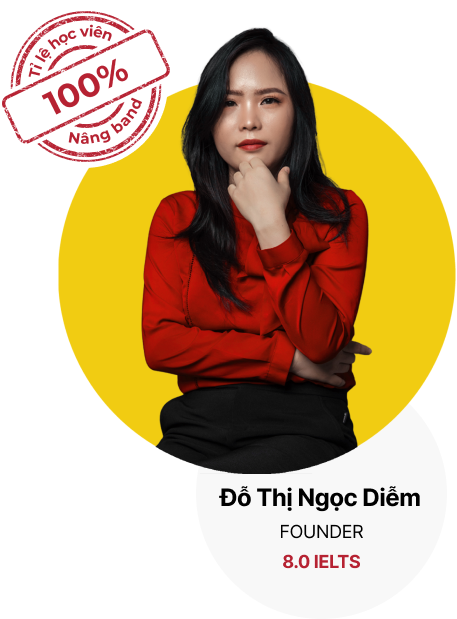
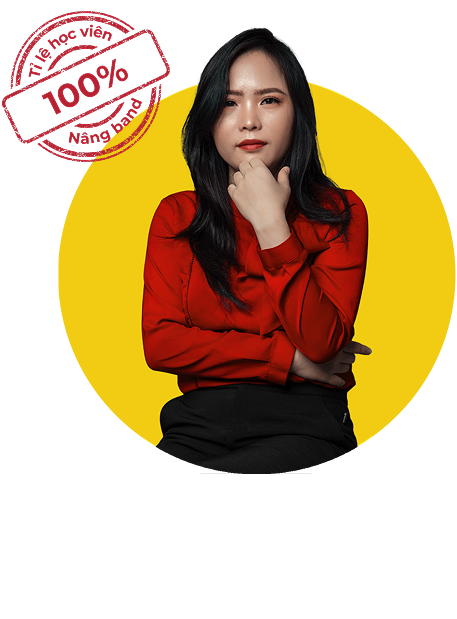
Update consultation button text for consistency and clarity across sections

diff --git a/src/components/home/alice-class-hero-section.tsx b/src/components/home/alice-class-hero-section.tsx
@@ -12,10 +12,10 @@ export const AliceClassHeroSection: React.FC = () => {
               Đạt Điểm IELTS Như Ý Muốn Trong Thời Gian Ngắn Cùng Alice&apos;s Class
             </div>
             <div className="mt-8 text-[16px] tracking-tight leading-8">
-              Bạn đang tìm cách đạt điểm IELTS như trường yêu cầu? Loay hoay không biết bắt đầu học tiếng Anh từ đâu, thiếu tự tin với khả năng sử dụng tiếng Anh hiện tại? Bạn đã dành nhiều thời gian, tiền bạc cho các trung tâm Anh ngữ, &quot;cày&quot; ngày đêm nhưng điểm số vẫn dậm chân tại chỗ, thậm chí còn tụt hạng? Thì bạn đã tìm đến đúng nơi. Tôi là Đỗ Thị Ngọc Diễm, và trung tâm của tôi, Alice&apos;s Class, đã <span className="font-bold">thành công giúp 100% học viên</span> nâng band và đạt được điểm IELTS như kỳ vọng.
+              Bạn muốn đạt điểm IELTS theo yêu cầu của trường? Loay hoay vì không biết bắt đầu học từ đâu, thiếu tự tin vào khả năng tiếng Anh? Dù đã đầu tư thời gian, tiền bạc vào các trung tâm và &quot;cày&quot; ngày đêm, điểm số vẫn không tiến triển, thậm chí tụt hạng? Vậy thì bạn đã tìm đúng chỗ. Tôi là Đỗ Thị Ngọc Diễm, và trung tâm Alice&apos;s Class của tôi đã giúp <span className="font-bold">100% học viên</span> nâng band và đạt điểm IELTS như kỳ vọng.
               <br />
               <br />
-              Chúng tôi đạt được kết quả này nhờ phương pháp giảng dạy lắng nghe, tận tâm, kết hợp sự quan tâm đến từng học viên và <span className="font-bold">lộ trình học tập &quot;đo ni đóng giày&quot;</span>. Nhờ đó giúp học viên nhận ra điểm yếu để tập trung giải quyết, từ đó bứt phá tiếng Anh hiệu quả và đạt được điểm số như mong muốn.
+              Chúng tôi làm được điều này nhờ phương pháp giảng dạy tận tâm, lắng nghe và lộ trình học được thiết kế riêng cho từng học viên. Điều này giúp học viên nhận ra điểm yếu để tập trung cải thiện, từ đó bứt phá tiếng Anh hiệu quả và đạt được điểm số mong muốn.
             </div>
           </div>
         </div>
@@ -23,18 +23,38 @@ export const AliceClassHeroSection: React.FC = () => {
         {/* Founder Card Section */}
 
         <div className="
-          col-start-8
-          col-span-5
-        max-md:col-span-12">
-          <Image
-            src="/assets/person.png"
-            alt="Alice's Class Founder"
-            width={2000}
-            height={2000}
-            className="object-cover rounded-lg"
-            quality={100}
-          />
+          col-start-8 col-span-5 
+          max-md:col-span-12 
+          relative flex justify-center items-center">
+          <div className="relative w-full aspect-square">
+            <Image
+              src="/assets/alice.jpg"
+              alt="Alice's Class Founder"
+              width={2000}
+              height={2000}
+              className="object-cover rounded-lg w-full h-auto z-10"
+              quality={100}
+            />
+            {/* Khối nội dung tên + chức danh */}
+            {/* <div className="
+                absolute bottom-[10%] right-[10%] 
+                md:bottom-[-13%] md:right-[5%] 
+                max-sm:bottom-[-13%] max-sm:right-[20px]
+                lg:bottom-[-7%] lg:right-[2%]
+                text-center bg-[#F8F8F8] rounded-full aspect-square flex items-center justify-center flex-col p-8 -z-10">
+              <div className="text-[24px] font-bold mt-2 max-sm:text-[18px]">
+                Đỗ Thị Ngọc Diễm
+              </div>
+              <div className="text-[18px] max-sm:text-[16px]">
+                FOUNDER
+              </div>
+              <div className="text-[18px] text-[#B62232] mt-1 font-bold max-sm:text-[16px]">
+                8.0 IELTS
+              </div>
+            </div> */}
+          </div>
         </div>
+
       </div>
     </section>
   );

diff --git a/src/components/home/hero-section.tsx b/src/components/home/hero-section.tsx
@@ -19,19 +19,19 @@ export const HeroSection = () => {
         <h1 className="mb-4 md:mb-6 text-xl font-bold leading-tight tracking-tight sm:text-2xl md:text-3xl lg:text-4xl flex flex-col gap-4 md:gap-6">
           <div className="flex flex-col gap-1 md:gap-2">
           <span className="md:hidden block text-white text-wrap text-[24px] sm:text-[28px] md:text-[36px] lg:text-[48px]">
-              CÁCH ĐỂ ĐẠT ĐƯỢC BẤT KÌ BAND ĐIỂM IETLS NÀO BẠN THÍCH...
+              CÁCH ĐỂ ĐẠT 6.5 IETLS TRONG VÒNG 3 THÁNG...
             </span>
 
             <span className="hidden md:block text-white text-wrap text-[24px] sm:text-[28px] md:text-[36px] lg:text-[48px]">
-              CÁCH ĐỂ ĐẠT ĐƯỢC BẤT KÌ BAND
+              CÁCH ĐỂ ĐẠT 6.5 IETLS TRONG
             </span>
             <span className="hidden md:block text-white text-wrap text-[24px] sm:text-[28px] md:text-[36px] lg:text-[48px] mt-2">
-              ĐIỂM IETLS NÀO BẠN THÍCH...{" "}
+             VÒNG 3 THÁNG...{" "}
             </span>
           </div>
           <div className="flex flex-col gap-1 md:gap-2">
             <span className="text-white text-wrap text-[16px] sm:text-[18px] md:text-[24px] lg:text-[28px]">
-              Mà Không Cần Cố Gắng Trả Lời Chính Xác Mọi Câu Hỏi
+              Mà Không Cần Phải Luyện Đề IELTS Mỗi Ngày
             </span>
           </div>
         </h1>
@@ -42,7 +42,7 @@ export const HeroSection = () => {
         </p>
 
        <div className="flex flex-col self-center mt-8 max-w-full text-lg md:text-2xl tracking-tight text-center w-full lg:w-[700px] max-md:mt-10">
-                 <CTAButton text="NHẬN BUỔI TƯ VẤN CHIẾN LƯỢC MIỄN PHÍ" />
+                 <CTAButton text="NHẬN BUỔI TƯ VẤN LỘ TRÌNH HỌC MIỄN PHÍ" />
                </div>
       </div>
     </section>

diff --git a/src/components/home/future-section.tsx b/src/components/home/future-section.tsx
@@ -30,7 +30,7 @@ export default function FutureSection() {
 
         {/* Right column with text content */}
         <div className="space-y-8 lg:col-span-6">
-          <h1 className="text-2xl md:text-4xl lg:text-5xl font-bold text-[#B62232] leading-tight">
+          <h1 className="text-2xl md:text-4xl lg:text-4xl font-bold text-[#B62232] leading-tight">
             Cuộc Sống Của Bạn Sẽ Thế Nào Nếu Đạt Được Điểm IELTS Mong Muốn
           </h1>
           <div className="space-y-6 text-gray-700">
@@ -50,7 +50,7 @@ export default function FutureSection() {
       
     </section>
     <div className="container flex flex-col self-center mt-8 max-w-full text-lg md:text-2xl tracking-tight text-center w-full lg:w-[700px] max-md:mt-10">
-      <CTAButton text="NHẬN BUỔI TƯ VẤN CHIẾN LƯỢC MIỄN PHÍ" />
+      <CTAButton text="NHẬN BUỔI TƯ VẤN LỘ TRÌNH HỌC MIỄN PHÍ" />
       <div className="self-center mt-2.5 leading-8 text-black max-md:max-w-full text-[18px] md:text-[20px] italic font-bold">
         Tìm hiểu cách bạn chắc chắn nâng được band điểm IELTS và tự tin sử dụng tiếng Anh vào đời sống thường ngày
       </div>

diff --git a/src/components/home/consultation-section.tsx b/src/components/home/consultation-section.tsx
@@ -86,7 +86,7 @@ export interface ConsultationButtonProps {
               bold={content.bold}
             />
             <div className="flex flex-col self-center mt-8 max-w-full text-base md:text-lg tracking-tight text-center w-full lg:w-[700px] max-md:mt-10">
-              <CTAButton text="NHẬN BUỔI TƯ VẤN CHIẾN LƯỢC MIỄN PHÍ" />
+              <CTAButton text="NHẬN BUỔI TƯ VẤN LỘ TRÌNH HỌC MIỄN PHÍ" />
               <div className="self-center mt-2.5 leading-6 md:leading-8 text-black text-[16px] md:text-[18px] italic font-bold">
                 Tìm hiểu cách bạn chắc chắn nâng được band điểm IELTS và tự tin sử dụng tiếng Anh vào đời sống thường ngày
               </div>

diff --git a/src/components/home/contact-section.tsx b/src/components/home/contact-section.tsx
@@ -126,7 +126,7 @@ export const ContactFormSection: React.FC = () => {
           </div>
         </div>
         <div className="flex flex-col self-center mt-8 max-w-full text-lg md:text-2xl tracking-tight text-center w-full lg:w-[700px] max-md:mt-10">
-              <CTAButton text="NHẬN BUỔI TƯ VẤN CHIẾN LƯỢC MIỄN PHÍ" />
+              <CTAButton text="NHẬN BUỔI TƯ VẤN LỘ TRÌNH HỌC MIỄN PHÍ" />
               <div className="self-center mt-2.5 leading-8 text-black max-md:max-w-full text-[18px] md:text-[20px] italic font-bold">
                 Tìm hiểu cách bạn chắc chắn nâng được band điểm IELTS và tự tin sử dụng tiếng Anh vào đời sống thường ngày
               </div>

diff --git a/src/components/home/testimonial-section.tsx b/src/components/home/testimonial-section.tsx
@@ -93,7 +93,7 @@ export const TestimonialsSection: React.FC = () => {
           ))}
         </div>
         <div className="flex flex-col self-center mt-8 max-w-full text-lg md:text-2xl tracking-tight text-center w-full lg:w-[700px] max-md:mt-10">
-          <CTAButton text="NHẬN BUỔI TƯ VẤN CHIẾN LƯỢC MIỄN PHÍ" />
+          <CTAButton text="NHẬN BUỔI TƯ VẤN LỘ TRÌNH HỌC MIỄN PHÍ" />
           <div className="self-center mt-2.5 leading-8 text-black max-md:max-w-full text-[18px] md:text-[20px] italic font-bold">
             Tìm hiểu cách bạn chắc chắn nâng được band điểm IELTS và tự tin sử dụng tiếng Anh vào đời sống thường ngày
           </div>

diff --git a/src/components/home/benefit-section.tsx b/src/components/home/benefit-section.tsx
@@ -90,7 +90,7 @@ export function BenefitSection() {
 
       {/* CTA Button */}
       <div className="flex flex-col self-center mt-8 max-w-full text-lg md:text-2xl tracking-tight text-center w-full lg:w-[700px] max-md:mt-10">
-        <CTAButton text="NHẬN BUỔI TƯ VẤN CHIẾN LƯỢC MIỄN PHÍ" />
+        <CTAButton text="NHẬN BUỔI TƯ VẤN LỘ TRÌNH HỌC MIỄN PHÍ" />
         <div className="self-center mt-2.5 leading-8 text-black max-md:max-w-full text-[18px] md:text-[20px] italic font-bold">
           Tìm hiểu cách bạn chắc chắn nâng được band điểm IELTS  và tự tin sử dụng tiếng Anh vào đời sống thường ngày
         </div>

diff --git a/src/components/pop-up.tsx b/src/components/pop-up.tsx
@@ -125,7 +125,7 @@ export default function PopUpForm({ open, setOpen }: any) {
               <Textarea name="message" placeholder="Câu hỏi thêm (Nếu có)" className="pl-12 min-h-[100px] border-[#B62232] rounded-none" value={formData.message} onChange={handleChange} />
             </div>
             <Button type="submit" className="w-full bg-red-700 text-white hover:bg-red-800 rounded-none" disabled={loading}>
-              {loading ? "Đang gửi..." : "NHẬN BUỔI TƯ VẤN CHIẾN LƯỢC MIỄN PHÍ"}
+              {loading ? "Đang gửi..." : "NHẬN BUỔI TƯ VẤN LỘ TRÌNH HỌC MIỄN PHÍ"}
             </Button>
           </form>
         </DialogContent>
